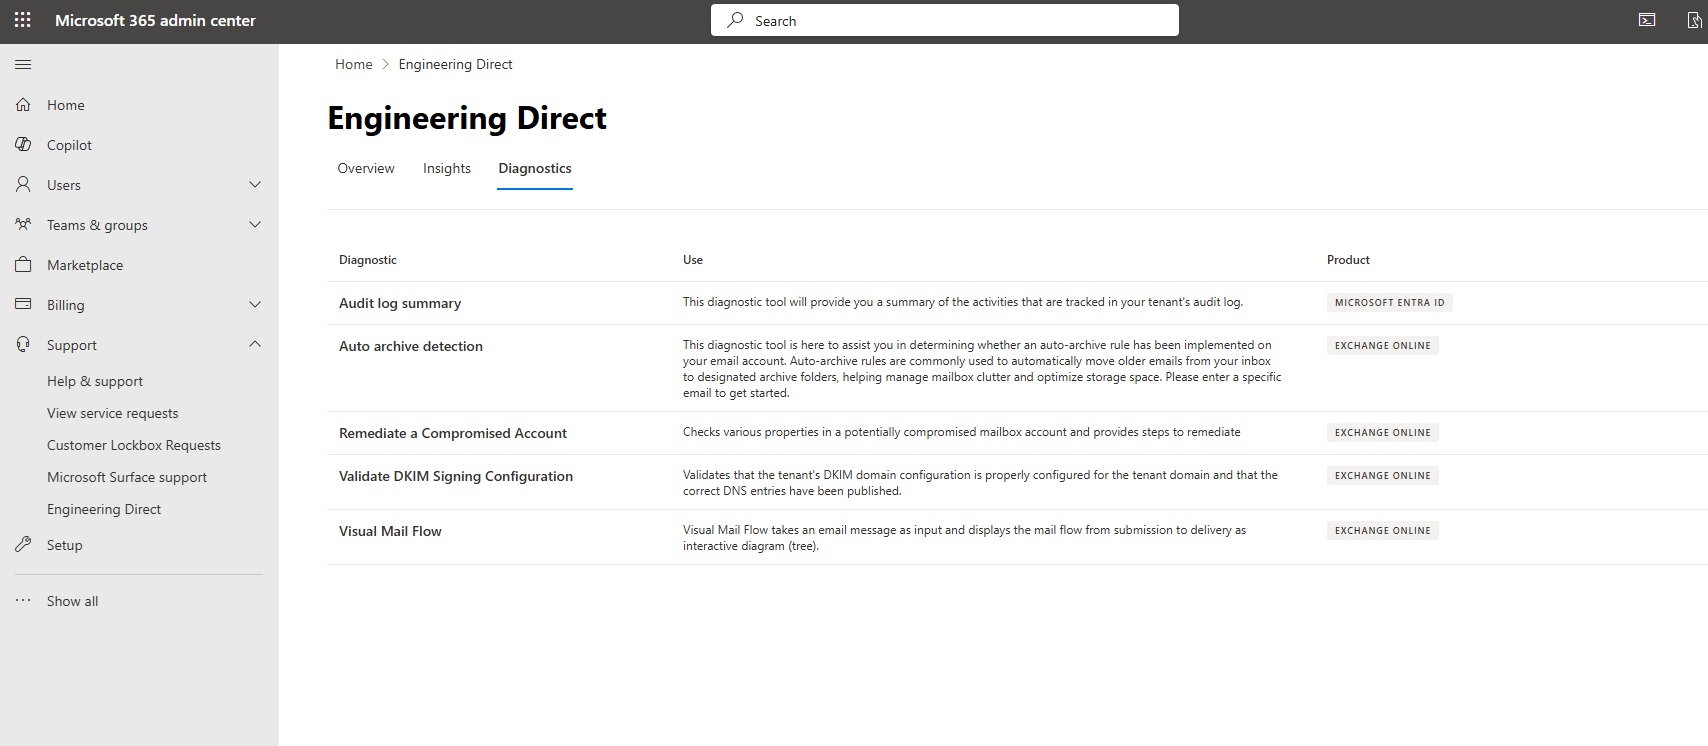
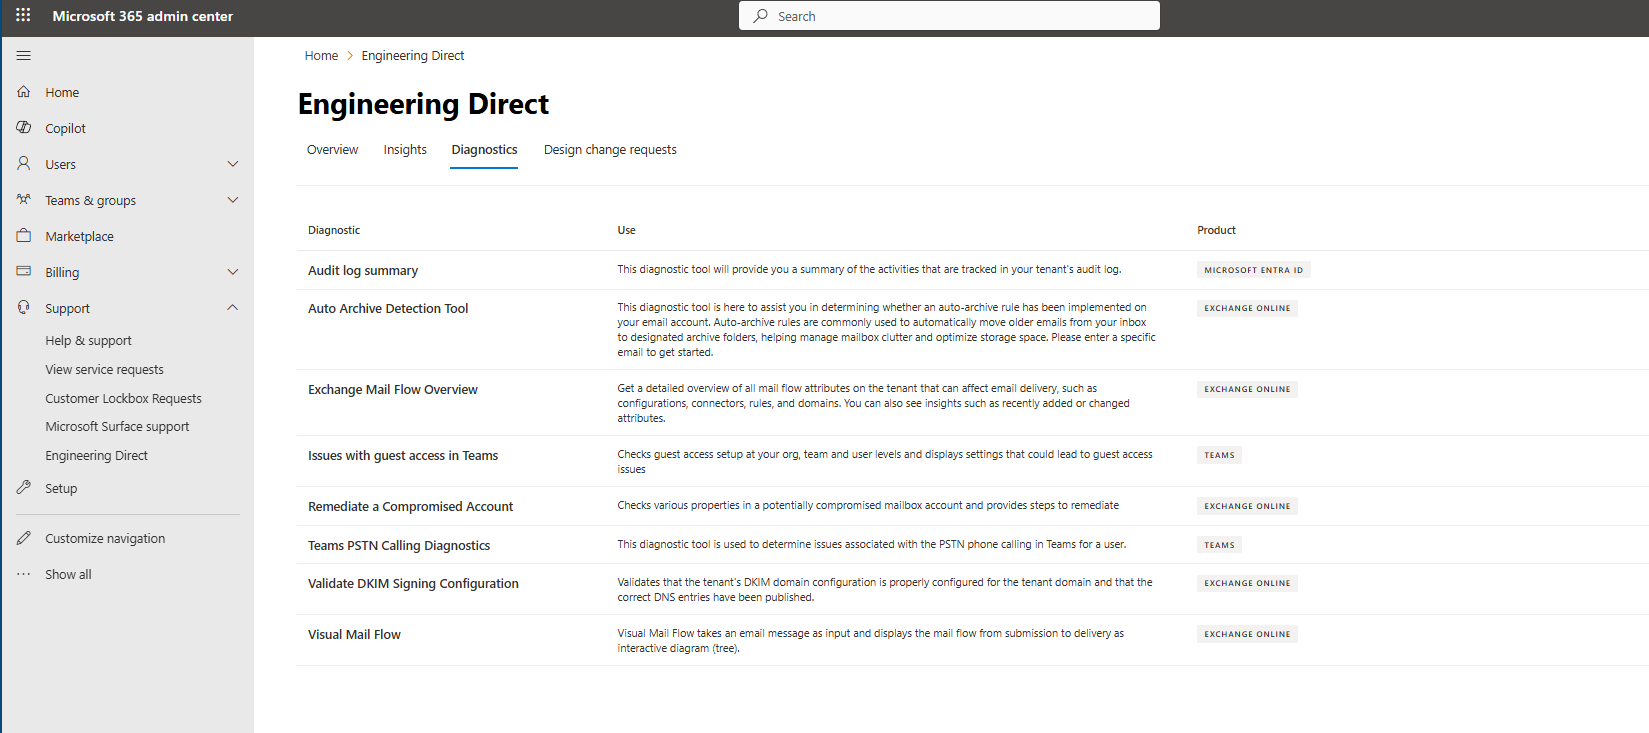
Added screenshot, updated link

diff --git a/microsoft-365/enterprise/engineering-direct-portal.md b/microsoft-365/enterprise/engineering-direct-portal.md
@@ -3,7 +3,7 @@ title: "Engineering Direct Portal in the Microsoft 365 Admin Center"
 author: kelleyvice-msft
 ms.author: kvice  
 manager: scotv
-ms.date: 12/03/2024
+ms.date: 02/13/2025
 ms.topic: article
 ms.service: microsoft-365-enterprise
 ms.subservice: administration
@@ -95,8 +95,7 @@ In this section:
 - [Remediate a Compromised Account](#remediate-a-compromised-account)
 - [Audit Log Summary](#audit-log-summary)
 - [Issues with Guest Access in Teams](#issues-with-guest-access-in-teams)
-
-- Teams PSTN Calling Diagnostic 
+- [Teams PSTN Calling Diagnostic](#teams-pstn-calling-diagnostic)
 
 ### Visual Mail Flow
 
